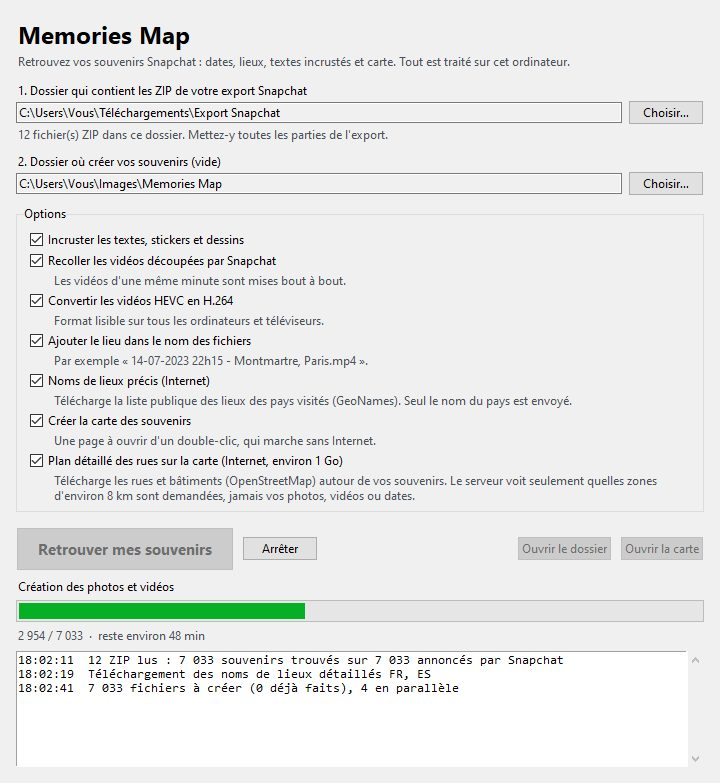
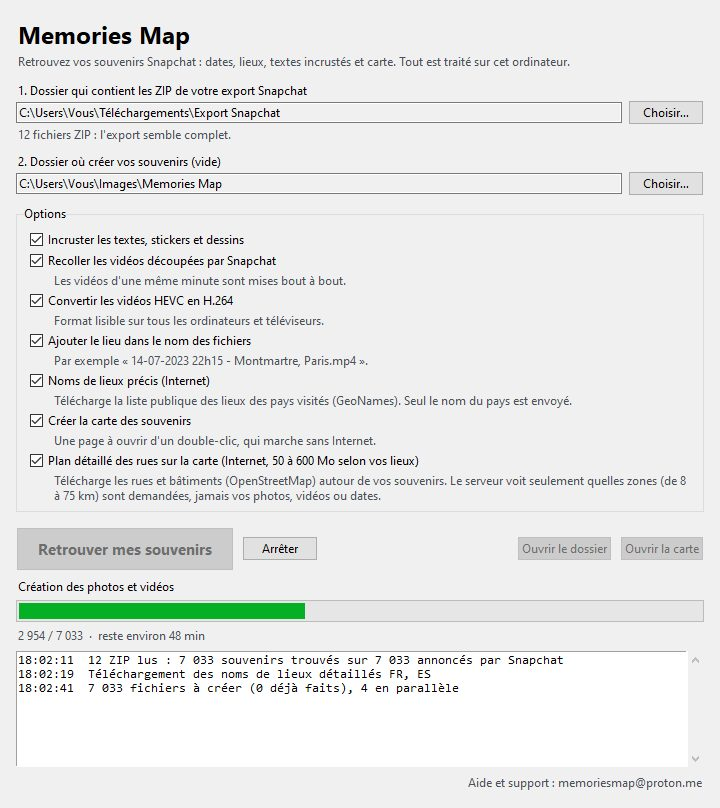
Plan des rues plus léger : 50 à 600 Mo ; nouvelle capture du logiciel

diff --git a/README.md b/README.md
@@ -42,7 +42,8 @@ Gratuit · Windows 10 et 11 (64 bits) · aucun compte à créer · vos photos et
    `Memories Map.exe`, choisissez le dossier des ZIP et un dossier vide pour le résultat, puis cliquez sur
    « Retrouver mes souvenirs ».
 
-Prévoyez sur le disque de destination environ la taille des ZIP, plus environ 1 Go pour le plan détaillé des rues.
+Prévoyez sur le disque de destination environ la taille des ZIP, plus 50 à 600 Mo pour le plan détaillé des rues
+(selon le nombre de lieux).
 Memories Map vérifie la place libre avant de commencer et ne modifie jamais les ZIP d'origine.
 
 ![La fenêtre de Memories Map pendant le traitement](images/logiciel.jpg)
@@ -69,8 +70,8 @@ facultatives utilisent Internet :
 - **Noms de lieux précis** : télécharge la liste publique des lieux des pays visités (GeoNames). Seul le nom du
   pays est envoyé.
 - **Plan détaillé des rues** : télécharge les rues et bâtiments (OpenStreetMap, préparés par Protomaps) autour de
-  vos souvenirs. Le serveur voit seulement quelles zones d'environ 8 km sont demandées, jamais vos photos, vidéos
-  ou dates.
+  vos souvenirs. Le serveur voit seulement quelles zones (de 8 à 75 km) sont demandées, jamais vos photos,
+  vidéos ou dates.
 
 Rien n'est installé dans Windows : pour supprimer le logiciel, effacez simplement son dossier.
 
@@ -130,7 +131,8 @@ Free · Windows 10 and 11 (64-bit) · no account to create · your photos and vi
    folder with the ZIP files and an empty folder for the result, then click « Retrouver mes souvenirs » (Find my
    memories).
 
-On the destination drive, plan for about the size of the ZIP files, plus about 1 GB for the detailed street map.
+On the destination drive, plan for about the size of the ZIP files, plus 50 to 600 MB for the detailed street map
+(depending on the number of places).
 Memories Map checks the free space before starting and never modifies the original ZIP files.
 
 ![The Memories Map window during processing](images/logiciel.jpg)
@@ -156,7 +158,7 @@ the Internet:
 - **Precise place names**: downloads the public list of places in the countries you visited (GeoNames). Only the
   name of the country is sent.
 - **Detailed street map**: downloads the streets and buildings (OpenStreetMap, prepared by Protomaps) around your
-  memories. The server only sees which areas of about 8 km are requested, never your photos, videos or dates.
+  memories. The server only sees which areas (8 to 75 km wide) are requested, never your photos, videos or dates.
 
 Nothing is installed in Windows: to remove the software, simply delete its folder.
 
